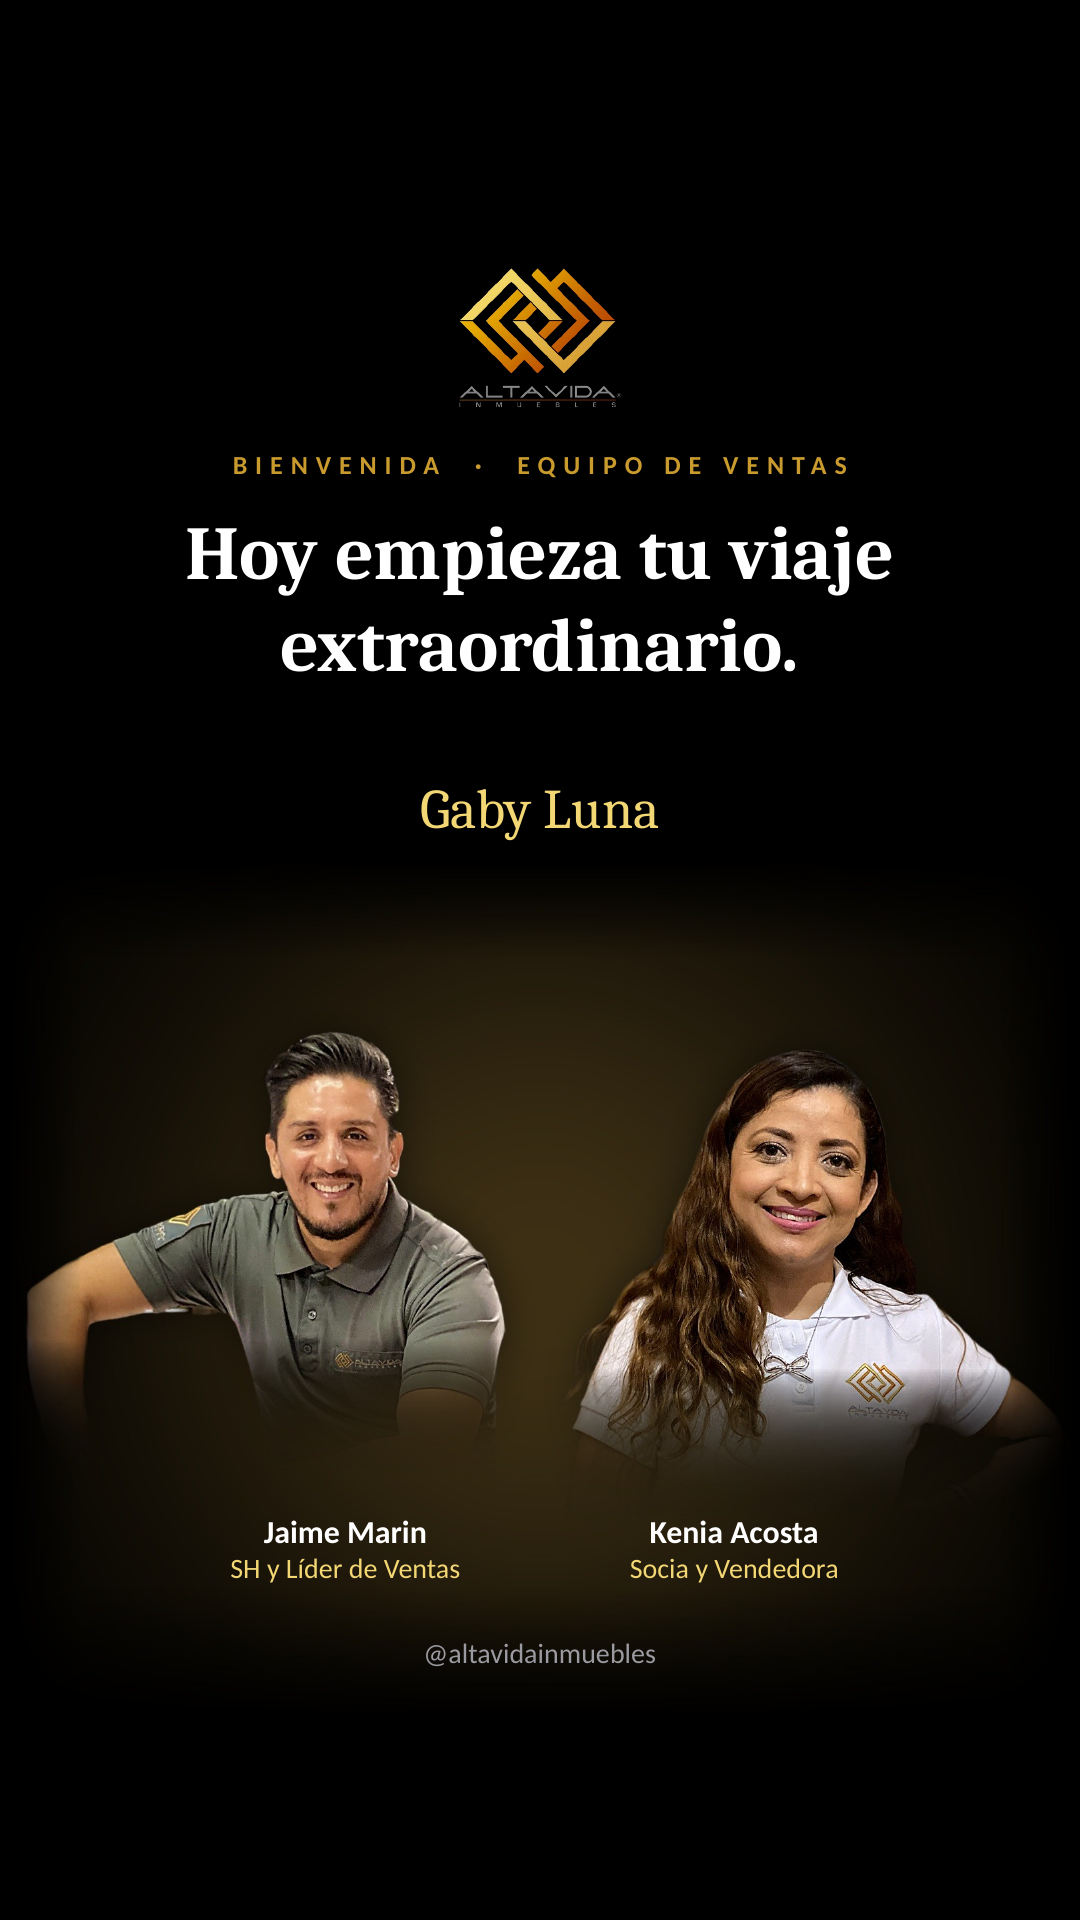
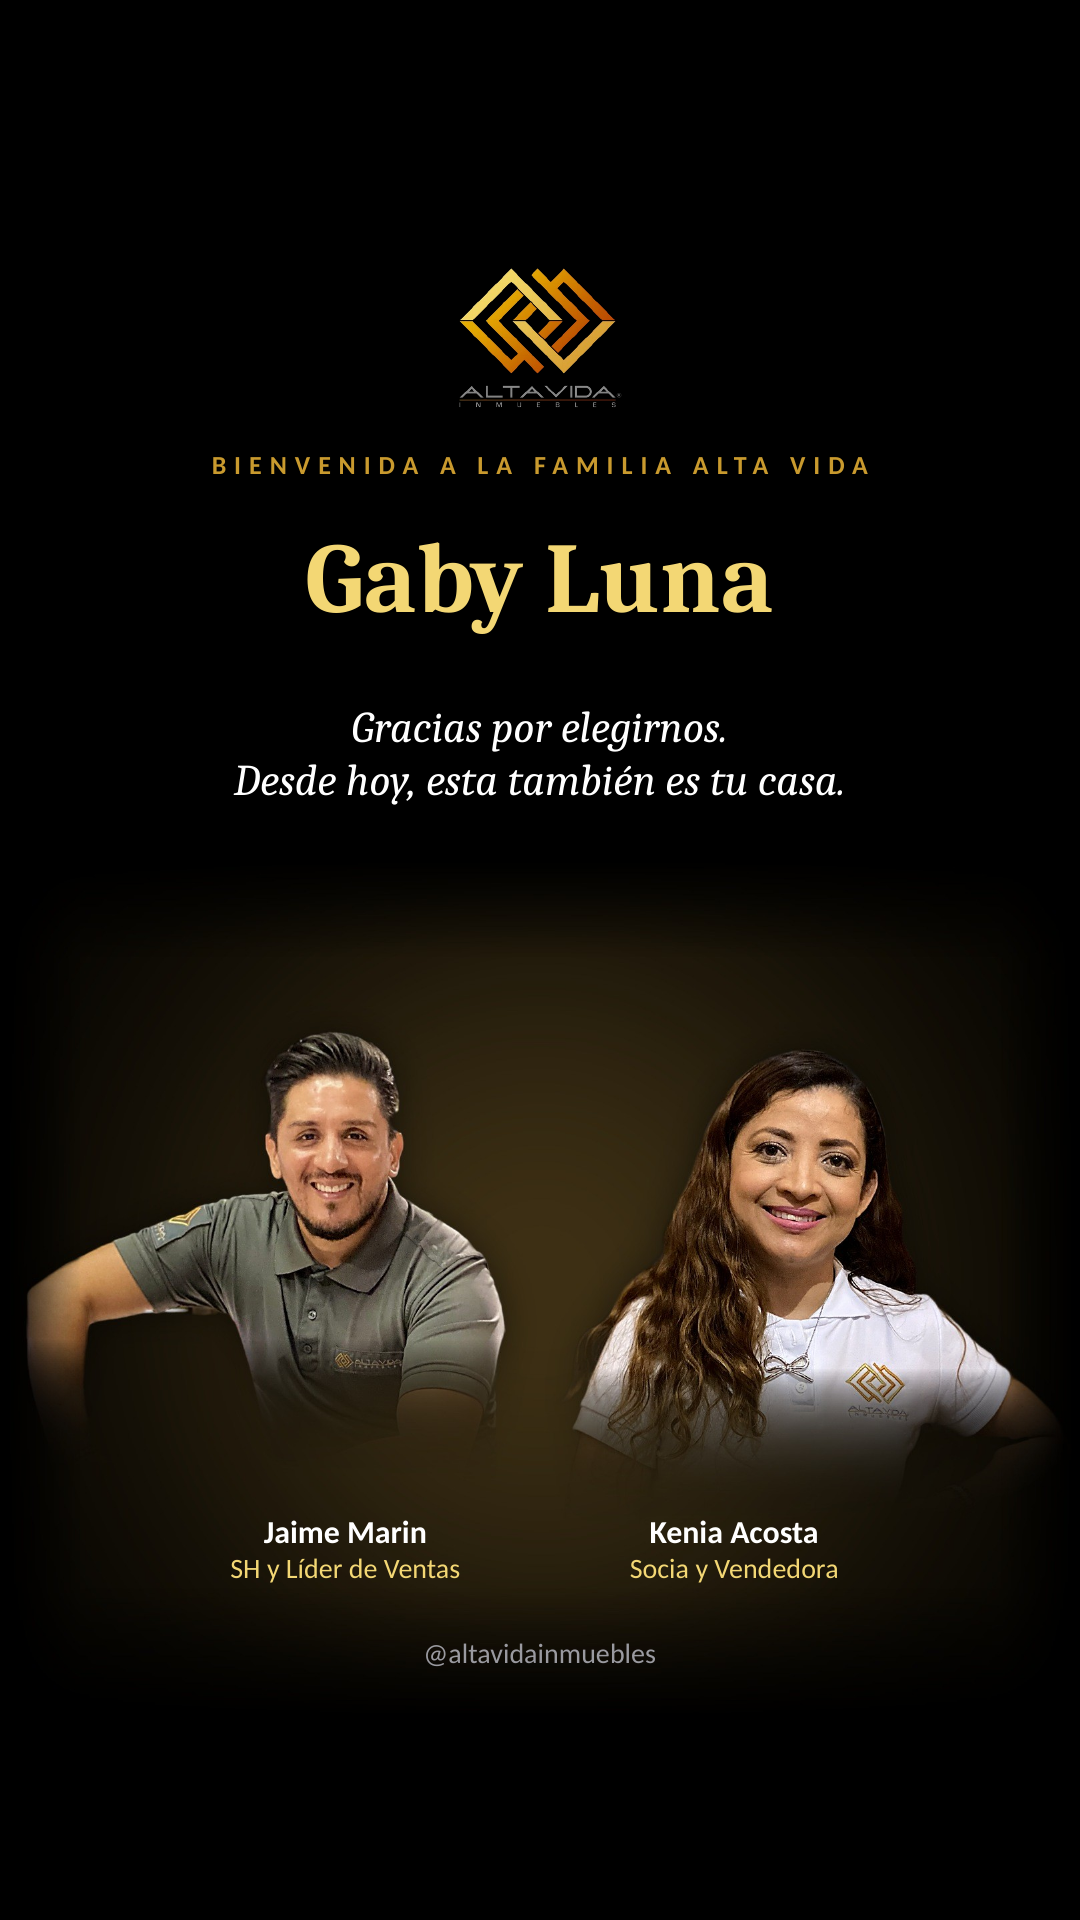
Bienvenida con el nombre como protagonista y frase de agradecimiento
Claude-Session: https://claude.ai/code/session_01MtcDPr9NhvNUbogWarsHej

diff --git a/bienvenida/build.js b/bienvenida/build.js
@@ -31,13 +31,13 @@ async function build(name, fmt, out) {
   s.addImage({ path: A(F.panel.img), x: 0, y: F.panel.y, w: 7.5, h: F.panel.h, objectName: "Jaime Marin y Kenia Acosta", altText: "Jaime Marin y Kenia Acosta, Alta Vida Inmuebles" });
   const lh = F.logo.w * 0.856;
   s.addImage({ path: A("logo_full.png"), x: (7.5 - F.logo.w) / 2, y: F.logo.y, w: F.logo.w, h: lh, objectName: "Logo Alta Vida Inmuebles", altText: "Logotipo de Alta Vida Inmuebles" });
-  txt(s, "BIENVENIDA  ·  EQUIPO DE VENTAS", { x: 0.5, y: F.label, w: 6.5, h: 0.35, fontSize: 13, bold: true, color: C.accent1, charSpacing: 4, objectName: "Etiqueta" });
-  txt(s, [{ text: "Hoy empieza tu viaje", options: { breakLine: true } }, { text: "extraordinario." }], { x: 0.5, y: F.phrase.y, w: 6.5, h: F.phrase.h, fontSize: F.phrase.size, bold: true, color: C.background1, valign: "top", fontFace: "Cambria", objectName: "Frase" });
-  txt(s, name, { x: 0.5, y: F.name, w: 6.5, h: 0.6, fontSize: 28, color: C.accent2, fontFace: "Cambria", objectName: "Nombre" });
+  txt(s, "BIENVENIDA A LA FAMILIA ALTA VIDA", { x: 0.5, y: F.label, w: 6.5, h: 0.35, fontSize: 13, bold: true, color: C.accent1, charSpacing: 4, objectName: "Etiqueta" });
+  txt(s, name, { x: 0.5, y: F.phrase.y, w: 6.5, h: 0.95, fontSize: F.phrase.size + 12, bold: true, color: C.accent2, valign: "middle", fontFace: "Cambria", objectName: "Nombre" });
+  txt(s, [{ text: "Gracias por elegirnos.", options: { breakLine: true } }, { text: "Desde hoy, esta también es tu casa." }], { x: 0.5, y: F.name - 0.45, w: 6.5, h: 1.0, fontSize: 22, color: C.background1, valign: "top", fontFace: "Cambria", italic: true, objectName: "Frase" });
   txt(s, [{ text: "Jaime Marin", options: { fontSize: 16, bold: true, color: C.background1, breakLine: true } }, { text: "SH y Líder de Ventas", options: { fontSize: 14, color: C.accent2 } }], { x: 1.15, y: F.cap, w: 2.5, h: 0.7, valign: "top", objectName: "Jaime Marin" });
   txt(s, [{ text: "Kenia Acosta", options: { fontSize: 16, bold: true, color: C.background1, breakLine: true } }, { text: "Socia y Vendedora", options: { fontSize: 14, color: C.accent2 } }], { x: 3.85, y: F.cap, w: 2.5, h: 0.7, valign: "top", objectName: "Kenia Acosta" });
   txt(s, "@altavidainmuebles", { x: 0.5, y: F.handle, w: 6.5, h: 0.35, fontSize: 14, color: C.accent4, objectName: "Cuenta" });
-  s.addNotes(`Bienvenida a ${name}: "Hoy empieza tu viaje extraordinario."`);
+  s.addNotes(`Bienvenida a ${name}: "Gracias por elegirnos. Desde hoy, esta también es tu casa."`);
   await pres.writeFile({ fileName: out });
   await applyTheme(out, THEME);
   console.log("OK", out);
